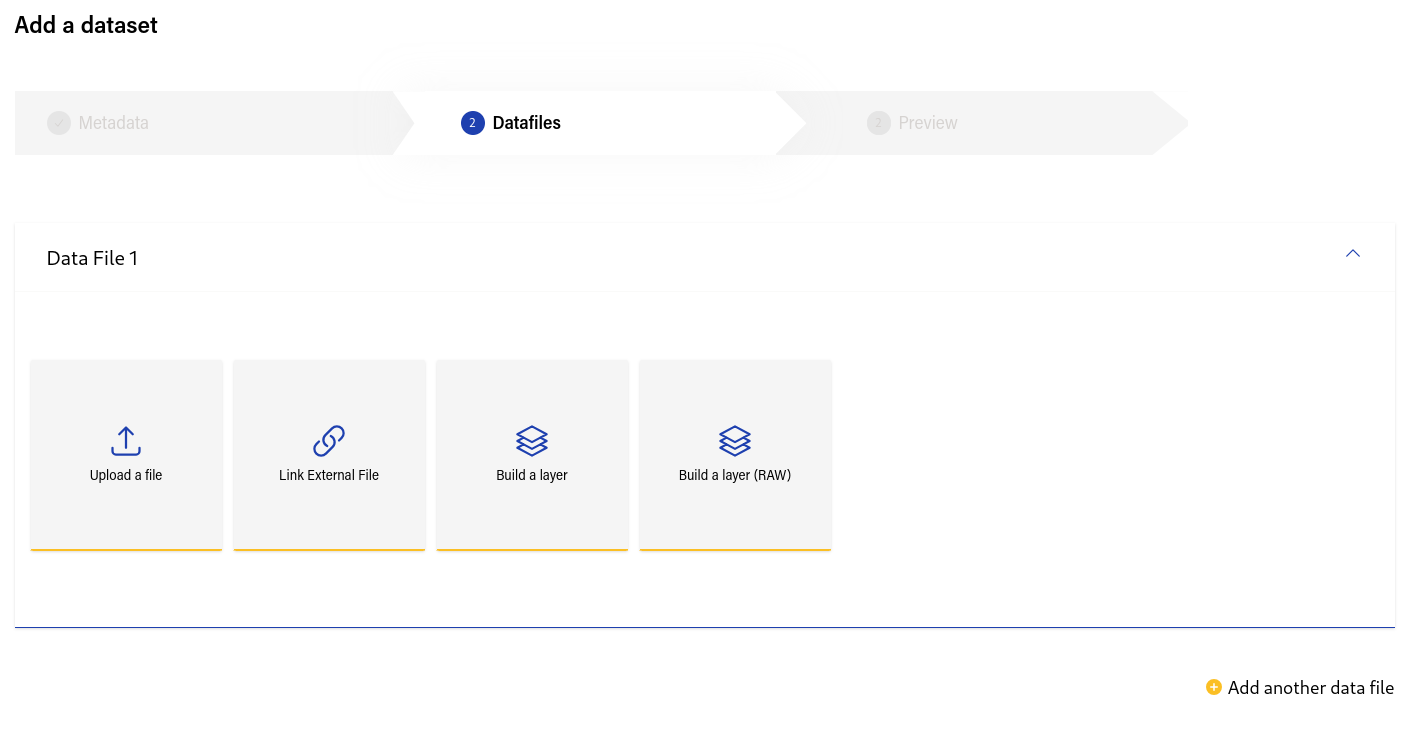
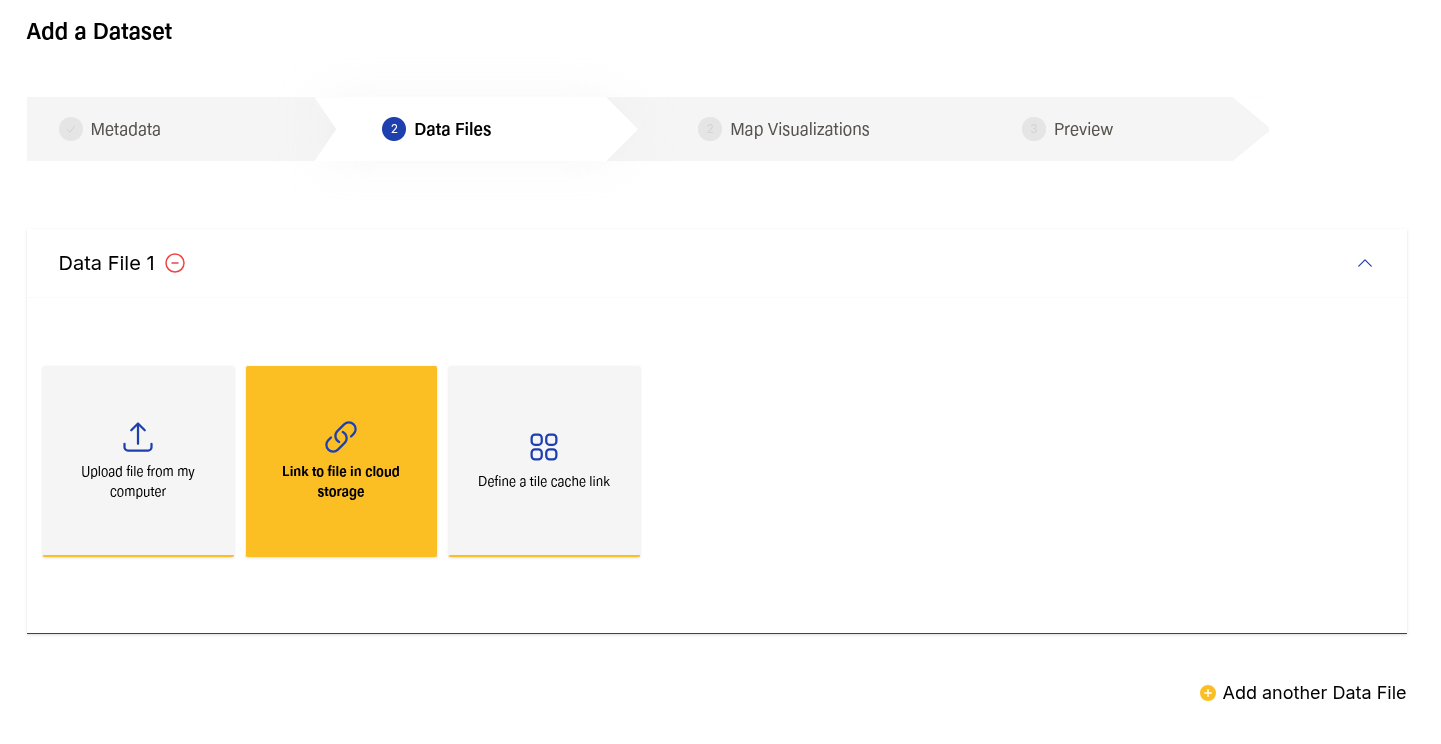
Update docs

diff --git a/docs/datasets/README.md b/docs/datasets/README.md
@@ -137,6 +137,10 @@ If you want to just link some data that lives outside the system, you can just s
 
 ![Link datafile](./link_external_file.png)
 
+If you want to link a tilecache URL you can click on ¨Define a tile cache link", this is essentially a resource with `url_type` set to `tilecache` and with the `cache_type` field set to 'raster' or 'vector'
+
+![Link tilecache](./select_tile_cache.png)
+
 You can add multiple datafiles by selecting the `Add another datafile button`
 
 ![Add another datafile](./add_another_datafile.png)
